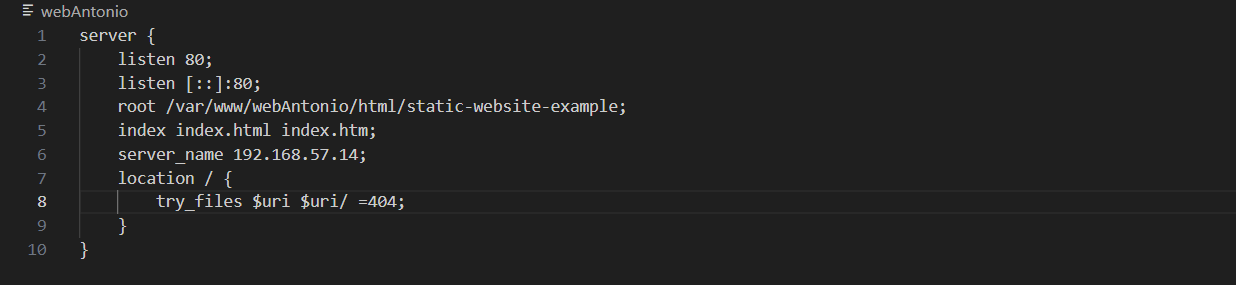
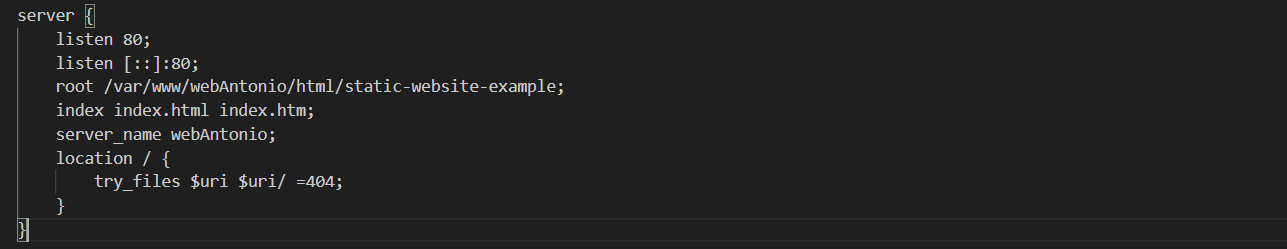
Añadimos la comprobación al archivo readme

diff --git a/README.md b/README.md
@@ -20,5 +20,12 @@ añadimos esta configuración en el archivo .gitignore para que toda la configur
     -Copiamos el archivo webAntonio de vagrant al directorio /etc/nginx/sites-available/webAntonio, creamos un enlace simbólico en sites-enabled, comprobamos y reiniciamos el servicio de nginx
 ![alt text](images/image6.png)
 
-Archivo vagrantfile actualizado
+    -Archivo vagrantfile completo
 ![alt text](images/image3.png)
+
+    -Comprobamos que funciona correctamente poniendo en el navegador la url http://webAntonio
+        ·añadimos al archivo etc/hosts la direccion ip y el nombre del servidor
+![alt text](images/image7.png)
+
+Página web de ejemplo
+![alt text](images/image8.png)
